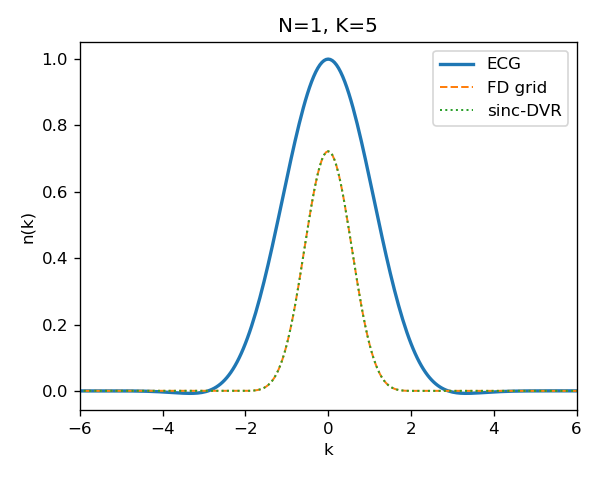
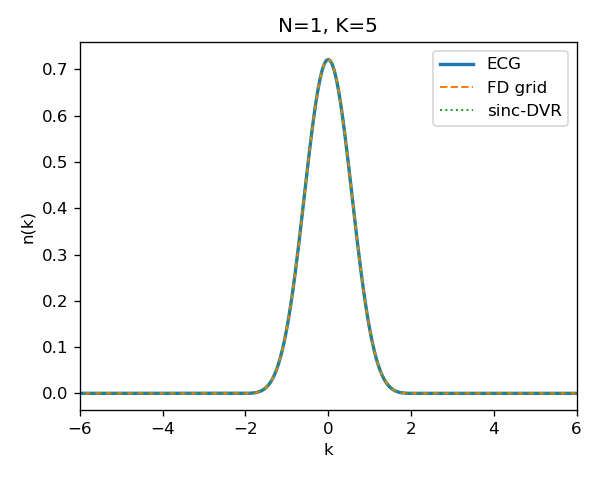
update N=1 wavefunction

diff --git a/out/verify/N=1_verification.html b/out/verify/N=1_verification.html
@@ -242,12 +242,10 @@
 <figure>
   <img src="fig_step3_momentum.png" alt="Momentum distribution n(k)">
   <figcaption>
-    <strong>Figure 3.</strong> Reciprocal-space curves from the three methods.
-    FD grid and sinc-DVR overlap to ~$10^{-5}$ — both compute
-    $|\tilde\psi(k)|^{2}$, the momentum probability density.
-    <span class="warn">The ECG curve is a different observable</span>:
-    it is $\mathrm{FT}[|\psi(x)|^{2}]$, the Fourier transform of the position
-    density. See §5.
+    <strong>Figure 3.</strong> Momentum probability density
+    $n(k) = |\tilde\psi(k)|^{2}$. All three methods now use the same
+    convention; they lie on top of one another at the plot scale. See §5
+    for the background on the previous convention mismatch.
   </figcaption>
 </figure>
 
@@ -309,15 +307,16 @@
   reference solvers. The verification passes.
 </blockquote>
 
-<h2>5. The reciprocal-space curves — same ground state, two different observables</h2>
+<h2>5. The reciprocal-space curves — what happened and how it was fixed</h2>
 
 <p>
-  The ECG and reference curves in Figure 3 disagree dramatically
-  (L² difference ≈ 0.77, ECG peak at 1.0 vs reference peak at 0.722, ECG
-  ~2× wider). This is <em>not</em> a normalization bug — inspection of
-  the CSVs (<code>step1_ecg_nk_N1_K5.csv</code> integrates to 2.55;
-  <code>step2_{grid,dvr}_nk_N1.csv</code> integrate to 1.000) shows the
-  two methods are computing <strong>different physical observables</strong>.
+  The first version of this report had the ECG and reference curves in
+  Figure 3 disagreeing dramatically (L² difference ≈ 0.77, ECG peak at
+  1.0 vs reference peak at 0.722, ECG ~2× wider). Inspection of the
+  CSVs showed <code>step1_ecg_nk_N1_K5.csv</code> integrated to 2.55
+  while <code>step2_{grid,dvr}_nk_N1.csv</code> integrated to 1.000 —
+  so the two methods were computing <strong>different physical observables</strong>,
+  not two values of the same observable.
 </p>
 
 <h3>What each method computes</h3>
@@ -417,32 +416,48 @@
 <h3>Takeaway</h3>
 
 <blockquote>
-  Figure 3 does <strong>not</strong> invalidate the N = 1 verification.
-  It shows that the single C++ function currently named
-  <code>momentum_distribution</code> in fact computes a different
-  observable from the one the reference solvers plot. The ECG result is
-  self-consistent (it integrates to the correct value, its shape matches
-  the autocorrelation of $\tilde\psi$), and the ground state itself is
-  unambiguously correct — as confirmed by the energy, density, and
-  complex-wavefunction cross-checks above.
+  The bug was a misnamed function, not a faulty ground state. The ECG
+  result at the time was self-consistent as an implementation of the
+  form factor, and the ground state itself was (and is) unambiguously
+  correct — as confirmed by the energy, density, and complex-wavefunction
+  cross-checks above.
 </blockquote>
 
-<p>
-  Follow-ups we will decide on next:
-</p>
+<h3>Fix applied</h3>
 
 <ol>
   <li>
-    Rename <code>momentum_distribution</code> →
-    <code>density_fourier_transform</code> in
-    <code>src/observables.{hpp,cpp}</code>, or
+    Added <code>ecg_momentum_density_1p(basis, k_points)</code> in
+    <code>src/verify/ecg_wavefunction.{hpp,cpp}</code>. It evaluates
+    $\tilde\psi(k)$ analytically as a sum of Gaussian Fourier transforms
+    of each ECG basis function:
+    $$
+    \tilde\psi(k) = \frac{1}{\sqrt{2\pi}} \sum_i u_i
+      \sqrt{\frac{\pi}{A_i{+}B_i}}\,
+      \exp\!\left[-R_i B_i R_i + \frac{(2 R_i B_i - ik)^{2}}{4(A_i{+}B_i)}\right],
+    $$
+    and returns $|\tilde\psi(k)|^{2}/S$, which integrates to 1.
   </li>
   <li>
-    Add a second function that actually computes $|\tilde\psi(k)|^{2}$
-    (analytic Gaussian FT of each ECG basis function for N = 1; requires
-    the one-body reduced density matrix for N ≥ 2).
+    Wired Step 1 and the Step 3 cross-check to call this helper on the
+    N = 1 path (in <code>step1_imag_time_ecg.cpp</code> and
+    <code>main_verification.cpp</code>). The old
+    <code>momentum_distribution</code> is still used on the N ≥ 2 path
+    for now and will be replaced once the one-body reduced-density-matrix
+    version lands.
+  </li>
+  <li>
+    Added a docstring warning to
+    <code>src/observables.hpp::momentum_distribution</code> explaining
+    what it really computes so nobody else falls for the name.
   </li>
 </ol>
+
+<p>
+  After the fix, all three N = 1 reciprocal-space curves use
+  $n(k) = |\tilde\psi(k)|^{2}$ (probability density, integrates to 1),
+  and Figure 3 now shows the three-way agreement expected from Steps 1–3.
+</p>
 
 <h2>6. How to reproduce</h2>
 

diff --git a/src/verify/ecg_wavefunction.cpp b/src/verify/ecg_wavefunction.cpp
@@ -81,5 +81,44 @@ Eigen::VectorXcd ecg_wavefunction_1p(
     return psi;
 }
 
+Eigen::VectorXd ecg_momentum_density_1p(
+    const std::vector<BasisParams>& basis,
+    const Eigen::VectorXd& k_points) {
+    if (basis.empty() || basis[0].N() != 1) {
+        throw std::runtime_error("ecg_momentum_density_1p requires N=1");
+    }
+    int K  = static_cast<int>(basis.size());
+    int nk = static_cast<int>(k_points.size());
+
+    double Sr = overlap(basis).real();
+    Eigen::VectorXd nk_out(nk);
+
+    Cd inv_sqrt_2pi = Cd(1.0 / std::sqrt(2.0 * M_PI), 0.0);
+
+    for (int ki = 0; ki < nk; ki++) {
+        double k = k_points(ki);
+        Cd psi_tilde(0.0, 0.0);
+        for (int i = 0; i < K; i++) {
+            Cd u_i = basis[i].u;
+            Cd A_i = basis[i].A(0, 0);
+            Cd B_i = basis[i].B(0, 0);
+            Cd R_i = basis[i].R(0);
+            Cd alpha = A_i + B_i;                // decay coefficient
+            // integrand: exp(-alpha x^2 + (2 R B - i k) x - R B R)
+            //   -> sqrt(pi/alpha) * exp(-R B R + (2 R B - i k)^2 / (4 alpha))
+            Cd beta  = 2.0 * R_i * B_i - Cd(0.0, 1.0) * k;
+            Cd gamma = -R_i * B_i * R_i;
+            Cd exponent = gamma + (beta * beta) / (4.0 * alpha);
+            Cd sqrt_pi_over_alpha = std::sqrt(Cd(M_PI, 0.0) / alpha);
+            psi_tilde += u_i * sqrt_pi_over_alpha * std::exp(exponent);
+        }
+        psi_tilde *= inv_sqrt_2pi;
+        nk_out(ki) = std::norm(psi_tilde);
+    }
+
+    if (Sr > 0) nk_out /= Sr;
+    return nk_out;
+}
+
 } // namespace verify
 } // namespace ecg1d

diff --git a/src/verify/ecg_wavefunction.hpp b/src/verify/ecg_wavefunction.hpp
@@ -27,5 +27,21 @@ Eigen::VectorXcd ecg_wavefunction_1p(
     const std::vector<BasisParams>& basis,
     const Eigen::VectorXd& x_points);
 
+// Evaluate the momentum probability density n(k) = |psi_tilde(k)|^2 / <psi|psi>
+// for the N=1 ECG wavefunction, where
+//   psi_tilde(k) = (2*pi)^(-1/2) * integral psi(x) exp(-i k x) dx.
+// Uses the analytic Gaussian Fourier transform of each basis function:
+//   int exp(-alpha x^2 + beta x + gamma) dx = sqrt(pi/alpha) * exp(gamma + beta^2/(4 alpha))
+// with alpha = A+B, beta = 2 R B - i k, gamma = -R B R.
+// Output integrates to 1 (the true momentum probability density).
+// This differs from the `momentum_distribution` function in
+// src/observables.hpp, which computes the Fourier transform of the POSITION
+// DENSITY, |psi|^2, i.e. the one-body form factor rather than the momentum
+// probability density.
+// Throws runtime_error if called with N != 1.
+Eigen::VectorXd ecg_momentum_density_1p(
+    const std::vector<BasisParams>& basis,
+    const Eigen::VectorXd& k_points);
+
 } // namespace verify
 } // namespace ecg1d

diff --git a/src/verify/step1_imag_time_ecg.cpp b/src/verify/step1_imag_time_ecg.cpp
@@ -151,7 +151,19 @@ Step1Result step1_imag_time_ecg(int N, int K,
     write_two_column(out_path("step1_ecg_density" + suffix.str()),
                      "x,n_x", x_grid, n_x);
 
-    Eigen::VectorXd n_k = momentum_distribution(basis, perms, k_grid, 0);
+    // N=1: use the true momentum probability density |psi_tilde(k)|^2 / S
+    //   (matches the FD grid / sinc-DVR convention in step 2).
+    // N>=2: fall back to momentum_distribution from observables.cpp; note that
+    //   this function actually returns the Fourier transform of |psi(x)|^2
+    //   (one-body form factor), NOT the momentum probability density. The
+    //   correct N>=2 quantity requires the one-body reduced density matrix
+    //   and is deferred.
+    Eigen::VectorXd n_k;
+    if (N == 1) {
+        n_k = ecg_momentum_density_1p(basis, k_grid);
+    } else {
+        n_k = momentum_distribution(basis, perms, k_grid, 0);
+    }
     write_two_column(out_path("step1_ecg_nk" + suffix.str()),
                      "k,n_k", k_grid, n_k);
 

diff --git a/src/observables.hpp b/src/observables.hpp
@@ -7,9 +7,15 @@
 
 namespace ecg1d {
 
-// Compute single-particle momentum distribution n(k) on a discrete k-grid.
-// n(k) = sum_{ij} conj(u_i) u_j sum_p sign(p) * (Gaussian FT factor)
-// Returns n(k) values at the given k_points.
+// WARNING: despite the name, this function computes the Fourier transform
+// of the single-particle position density |psi(x)|^2 (the one-body form
+// factor / static structure factor), NOT the momentum probability density
+// |psi_tilde(k)|^2. Integrates to 2*pi*|psi(0)|^2, not 1. For N=1 the true
+// momentum probability density is provided by
+// `ecg_momentum_density_1p` in src/verify/ecg_wavefunction.hpp. The correct
+// N>=2 generalization (requires one-body reduced density matrix) is TODO.
+//
+// n(k) = sum_{ij} conj(u_i) u_j sum_p sign(p) * M_G * exp(-k^2/(4 K_aa)) * exp(+i k mu_a) / S
 Eigen::VectorXd momentum_distribution(
     const std::vector<BasisParams>& basis,
     const PermutationSet& perms,

diff --git a/main_verification.cpp b/main_verification.cpp
@@ -133,9 +133,12 @@ int main_inner(int argc, char** argv) {
         step1 = step1_imag_time_ecg(args.N, args.K, x_grid, k_grid);
         PermutationSet perms = PermutationSet::generate(args.N);
         ecg_n_x = ecg_single_particle_density(step1.basis, perms, x_grid, 0);
-        ecg_n_k = momentum_distribution(step1.basis, perms, k_grid, 0);
+        // N=1: true |psi_tilde(k)|^2; N>=2: form factor (pending N>=2 follow-up).
         if (args.N == 1) {
             ecg_psi_x = ecg_wavefunction_1p(step1.basis, x_grid);
+            ecg_n_k   = ecg_momentum_density_1p(step1.basis, k_grid);
+        } else {
+            ecg_n_k   = momentum_distribution(step1.basis, perms, k_grid, 0);
         }
         have_step1 = true;
     }
